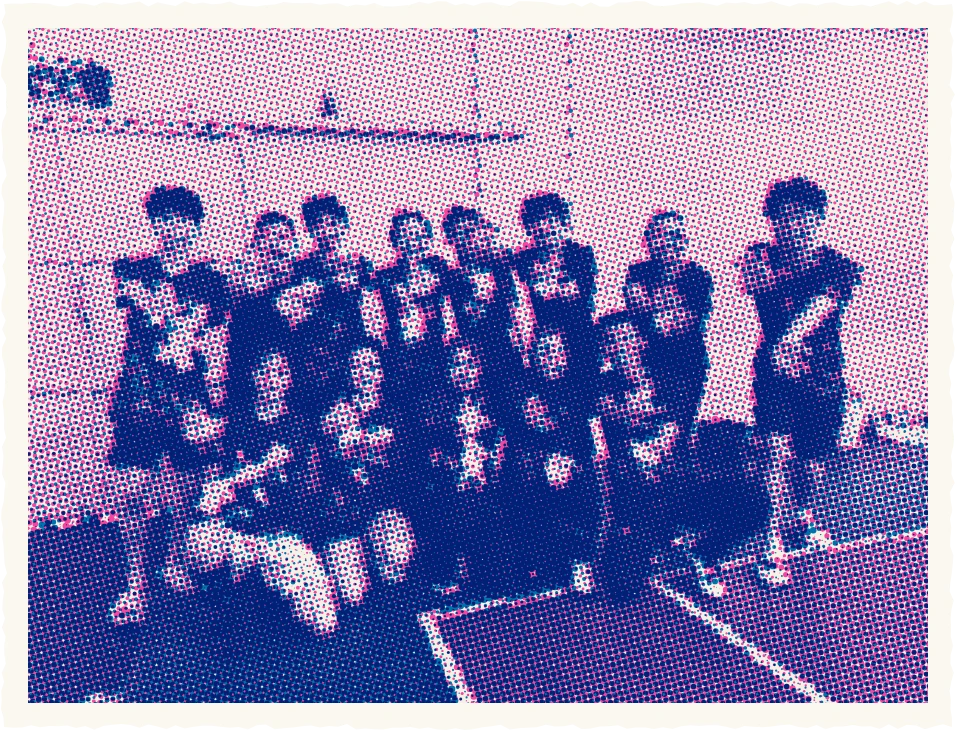
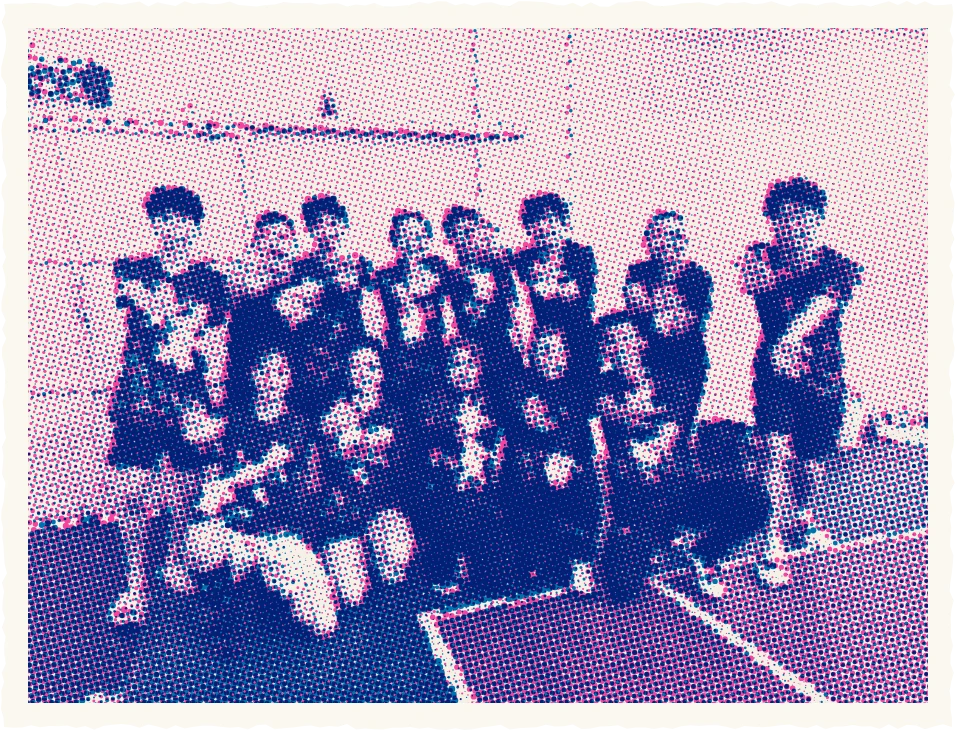
About critic r3: 6.5, gap is the shadow across the portrait
Claude-Session: https://claude.ai/code/session_016nJieuj3hz1PRLzcMUTyK7

diff --git a/site/js/chapters/desk.js b/site/js/chapters/desk.js
@@ -1,7 +1,7 @@
 // The scrapbook: a dot-grid page on the desk, the same window light falling
 // across it. Dodgeball memories get slapped onto the page as you scroll.
 import * as THREE from 'three';
-import { TIMELINE as T, clamp01, lerp, progress, smooth } from '../motion/timeline.js';
+import { STATES, TIMELINE as T, clamp01, lerp, progress, smooth } from '../motion/timeline.js';
 import { texture } from '../engine/textures.js';
 import { card, instantRect, place, sticker, tape } from '../engine/paper3d.js';
 
@@ -14,6 +14,41 @@ const backOut = (t) => {
   const c = 1.4;
   return 1 + (c + 1) * (t - 1) ** 3 + c * (t - 1) ** 2;
 };
+
+// The settled page, designed as a spread in screen space: each piece's centre
+// [u, v] (0..1 from the top-left of the frame), its width as a share of the
+// frame's width, and its tilt. Placement is solved through the camera at the
+// settled state, so every piece sits inside the frame whatever the aspect.
+// Wide: the copy owns the left 40%; the memories fill 0.47..0.96 in a loose
+// two-column spread. Narrow: the copy runs full width up top, so the memories
+// gather in the lower part of the frame.
+const SPREAD = {
+  wide: {
+    'gators-riso': { at: [0.585, 0.3], width: 0.2, rot: -0.05 },
+    'certificate-instant': { at: [0.8, 0.335], width: 0.14, rot: 0.06 },
+    'team-instant': { at: [0.56, 0.7], width: 0.14, rot: -0.035 },
+    'coaching-instant': { at: [0.725, 0.69], width: 0.115, rot: 0.045 },
+    'ticket-outreach': { at: [0.875, 0.75], width: 0.16, rot: -0.09 },
+    'sticker-star': { at: [0.733, 0.175], width: 0.034, rot: 0.2 },
+    'sticker-heart': { at: [0.915, 0.235], width: 0.028, rot: -0.2 },
+    'sticker-sparkle': { at: [0.94, 0.88], width: 0.024, rot: 0.15 },
+  },
+  narrow: {
+    'gators-riso': { at: [0.33, 0.6], width: 0.5, rot: -0.05 },
+    'certificate-instant': { at: [0.77, 0.62], width: 0.34, rot: 0.06 },
+    'team-instant': { at: [0.27, 0.81], width: 0.36, rot: -0.035 },
+    'coaching-instant': { at: [0.62, 0.83], width: 0.27, rot: 0.045 },
+    'ticket-outreach': { at: [0.5, 0.94], width: 0.4, rot: -0.06 },
+    'sticker-star': { at: [0.6, 0.52], width: 0.08, rot: 0.2 },
+    'sticker-heart': { at: [0.9, 0.74], width: 0.07, rot: -0.2 },
+    'sticker-sparkle': { at: [0.86, 0.95], width: 0.06, rot: 0.15 },
+  },
+};
+const SPREAD_STATE = STATES.scrapbook; // the camera pose the spread is solved for
+
+// A memory falls toward the page along the line of sight, so it lands where it
+// was seen in the air; it starts this share of the way to the eye.
+const DROP = { rise: 0.16, slide: 0.35 };
 
 // The sun is low, so a memory still in the air would throw its real shadow far
 // across the page. While it drops it casts none; a soft shadow rides under it
@@ -125,7 +160,7 @@ export class DeskChapter {
     scene.background = new THREE.Color(0x4a3526);
     this.scene = scene;
     const names = [
-      'paper', 'gobo-desk', 'gators-riso', 'game-riso', 'team-instant', 'certificate-instant', 'coaching-instant',
+      'paper', 'gobo-desk', 'gators-riso', 'team-instant', 'certificate-instant', 'coaching-instant', 'ticket-outreach',
       'tape-cream', 'tape-pink', 'tape-blue', 'tape-yellow', 'sticker-star', 'sticker-heart', 'sticker-sparkle',
     ];
     const tex = {};
@@ -158,18 +193,21 @@ export class DeskChapter {
     scene.add(sun, sun.target, new THREE.HemisphereLight(0xc9d4ea, 0x8a6a50, 1.05));
     this.sun = sun;
 
+    // In drop order: the riso and the hero polaroid first, the ticket and the stickers last.
     const items = [
-      { mesh: card(tex['gators-riso'], 2.6, { alphaTest: 0.5, gloss: 0, roughness: 0.92, lift: 0.4 }), at: { x: 1.9, y: 1.25, rot: -0.06 }, tape: ['pink', -0.95, 0.9, -0.6] },
-      { mesh: card(tex['certificate-instant'], 1.85, { rects: [instantRect(tex['certificate-instant'].userData.size, 1.2)], lift: 0.4 }), at: { x: 4.75, y: 1.5, rot: 0.07 }, tape: ['cream', 0, 1.3, 0.05] },
-      { mesh: card(tex['game-riso'], 2.6, { alphaTest: 0.5, gloss: 0, roughness: 0.92, lift: 0.3 }), at: { x: 2.3, y: -1.5, rot: 0.05 }, tape: ['yellow', 1.05, 0.75, 0.5] },
-      { mesh: card(tex['coaching-instant'], 1.7, { rects: [instantRect(tex['coaching-instant'].userData.size, 1.3)], lift: 0.5 }), at: { x: 6.6, y: -0.1, rot: -0.05 }, tape: ['blue', 0, 1.33, -0.1] },
-      { mesh: card(tex['team-instant'], 2.05, { rects: [instantRect(tex['team-instant'].userData.size, 0.8)], lift: 0.4 }), at: { x: 5.05, y: -1.75, rot: -0.04 }, tape: ['cream', -0.6, 1.0, -0.2] },
-      { mesh: sticker(tex['sticker-star'], 0.7), at: { x: 3.55, y: 2.55, z: 0.06, rot: 0.2 } },
-      { mesh: sticker(tex['sticker-heart'], 0.6), at: { x: 7.0, y: -2.5, z: 0.06, rot: -0.2 } },
-      { mesh: sticker(tex['sticker-sparkle'], 0.45), at: { x: 0.55, y: -2.75, z: 0.06, rot: 0.15 } },
+      { name: 'gators-riso', mesh: card(tex['gators-riso'], 2.6, { alphaTest: 0.5, gloss: 0, roughness: 0.92, lift: 0.4 }), tape: ['pink', -0.95, 0.9, -0.6] },
+      { name: 'certificate-instant', mesh: card(tex['certificate-instant'], 1.85, { rects: [instantRect(tex['certificate-instant'].userData.size, 1.2)], lift: 0.4 }), tape: ['cream', 0, 1.3, 0.05] },
+      { name: 'team-instant', mesh: card(tex['team-instant'], 2.05, { rects: [instantRect(tex['team-instant'].userData.size, 0.8)], lift: 0.4 }), tape: ['yellow', -0.6, 1.0, -0.35] },
+      { name: 'coaching-instant', mesh: card(tex['coaching-instant'], 1.7, { rects: [instantRect(tex['coaching-instant'].userData.size, 1.3)], lift: 0.5 }), tape: ['blue', 0, 1.33, -0.1] },
+      { name: 'ticket-outreach', mesh: card(tex['ticket-outreach'], 2.2, { gloss: 0, roughness: 0.9, lift: 0.25 }), tape: ['cream', 1.0, 0.3, 1.2] },
+      { name: 'sticker-star', mesh: sticker(tex['sticker-star'], 0.7), z: 0.06 },
+      { name: 'sticker-heart', mesh: sticker(tex['sticker-heart'], 0.6), z: 0.06 },
+      { name: 'sticker-sparkle', mesh: sticker(tex['sticker-sparkle'], 0.45), z: 0.06 },
     ];
-    this.items = items.map(({ mesh, at, tape: tapeSpec }, index) => {
-      place(page, mesh, { z: 0.08 + index * 0.012, ...at });
+    this.items = items.map(({ name, mesh, z, tape: tapeSpec }, index) => {
+      place(page, mesh, { z: (z ?? 0.08) + index * 0.012 });
+      mesh.userData.spread = name;
+      mesh.userData.width = mesh.userData.size.width;
       if (tapeSpec) {
         const [color, x, y, rot] = tapeSpec;
         const strip = tape(tex[`tape-${color}`], 0.62);
@@ -199,13 +237,43 @@ export class DeskChapter {
     this.camera.aspect = aspect;
     this.camera.fov = aspect < 1 ? 44 : 26;
     this.camera.updateProjectionMatrix();
+    this.layout();
   }
 
-  update(v) {
+  pose(v) {
     const drift = smooth(progress(v, [T.sections.scrapbook[0] - 0.4, T.sections.scrapbook[1]]));
     const narrow = this.camera.aspect < 1 ? 3.2 : 0;
     this.camera.position.set(lerp(0, 0.6, drift) + narrow, lerp(-2.6, -2.1, drift), lerp(15.4, 14.6, drift) + narrow);
     this.camera.lookAt(lerp(0, 0.5, drift) + narrow, 0.15, 0);
+    this.camera.updateMatrixWorld();
+  }
+
+  // Where the line of sight through screen point [u, v] meets the plane at height z.
+  onPage(u, v, z) {
+    const eye = this.camera.position;
+    const ray = new THREE.Vector3(u * 2 - 1, 1 - v * 2, 0.5).unproject(this.camera).sub(eye);
+    return eye.clone().addScaledVector(ray, (z - eye.z) / ray.z);
+  }
+
+  // Solves the spread for the camera at the settled state: rest spots and sizes.
+  layout() {
+    if (!this.items) return;
+    const spread = this.camera.aspect < 1 ? SPREAD.narrow : SPREAD.wide;
+    this.pose(SPREAD_STATE);
+    this.items.forEach((mesh) => {
+      const { at: [u, v], width, rot } = spread[mesh.userData.spread];
+      const z = mesh.userData.rest.z;
+      const centre = this.onPage(u, v, z);
+      const span = this.onPage(u + width / 2, v, z).x - this.onPage(u - width / 2, v, z).x;
+      mesh.scale.setScalar(span / mesh.userData.width);
+      mesh.userData.size = { width: span, height: (span * mesh.userData.size.height) / mesh.userData.size.width };
+      Object.assign(mesh.userData.rest, { x: centre.x, y: centre.y, rot });
+    });
+  }
+
+  update(v) {
+    this.pose(v);
+    const eye = this.camera.position;
 
     // Each memory drops onto the page in turn and lands with a small bounce.
     const [start, end] = T.scrapbook.settle;
@@ -215,7 +283,8 @@ export class DeskChapter {
       const t = clamp01((v - (start + index * step)) / (step * 3));
       const land = backOut(t);
       mesh.visible = t > 0;
-      mesh.position.set(rest.x, rest.y + (1 - land) * 0.6, rest.z + (1 - smooth(t)) * 2.4);
+      const rise = DROP.rise * (1 - smooth(t));
+      mesh.position.set(lerp(rest.x, eye.x, rise), lerp(rest.y, eye.y, rise) + (1 - land) * DROP.slide, lerp(rest.z, eye.z, rise));
       mesh.rotation.z = rest.rot + (1 - land) * mesh.userData.spinIn;
       const develop = mesh.material.userData.develop;
       if (develop) develop[0] = smooth(clamp01(t * 1.6 - 0.4));

diff --git a/site/js/chapters/wall.js b/site/js/chapters/wall.js
@@ -124,7 +124,7 @@ export class WallChapter {
     this.strip = card(tex['strip-color'], 0.98, { rects: stripRects(stripSize), lift: 0.5, segments: [6, 48] });
     this.strip.userData.rest = { x: 2.75, y: 0.0, z: 0.1, rot: -0.035 };
     wall.add(this.strip);
-    this.stripTape = tapeTop(this.strip, ink.tape('cream'), { width: 0.5, rot: 0.1 });
+    this.stripTape = tapeTop(this.strip, ink.tape('cream'), { width: 0.62, rot: 0.08, dy: -0.01 });
 
     // Its spot waits in the sun the way an album page waits for a photo: four
     // black corner mounts, and a ballpoint note pointing up into the spot. Each
@@ -165,6 +165,8 @@ export class WallChapter {
       mount.userData.group = 'hello';
       pieces.push(mount);
     });
+    // The tape lands over the top mounts, so it sits clear of their height.
+    this.stripTape.position.z = Math.max(cornerHeight(-1, 1), cornerHeight(1, 1)) + 0.02;
     // Ballpoint on the plaster under the spot (texture at 400 px per unit, laid
     // out from x -0.02, y -1.38 in the spot's frame).
     const noteSize = tex['note-spot'].userData.size;
@@ -274,20 +276,34 @@ export class WallChapter {
     strip.visible = v > print[0] - 0.02;
     const drop = 1 - easeOut(p);
     const swing = 0.1 * (1 - p) ** 2 * Math.sin(p * 9);
-    const pressed = smooth(progress(v, tapeRange));
-    strip.position.set(rest.x + drop * 0.25, rest.y + drop * 5.6, rest.z + 0.18 * (1 - pressed));
-    strip.rotation.z = rest.rot + swing;
+    // The tape drops in from above the camera, a little big and skewed,
+    // slaps onto the top edge at `hit`, pushes the strip a hair into the wall,
+    // and both settle. The strip seats itself as the tape comes down.
+    const u = progress(v, tapeRange);
+    const hit = 0.35;
+    const fall = clamp01(u / hit);
+    const press = Math.sin(Math.PI * clamp01((u - hit) / ((1 - hit) * 0.5)));
+    const seated = smooth(fall);
+    strip.position.set(
+      rest.x + drop * 0.25,
+      rest.y + drop * 5.6 - 0.016 * press,
+      rest.z + 0.18 * (1 - seated) - 0.035 * press,
+    );
+    strip.rotation.z = rest.rot + swing + 0.006 * press;
     const frames = strip.material.userData.develop;
     const span = (develop[1] - develop[0]) / (frames.length + 1.5);
     frames.forEach((_, i) => {
       frames[i] = smooth(progress(v, [develop[0] + i * span, develop[0] + (i + 2.5) * span]));
     });
-    const tapeIn = clamp01((v - tapeRange[0]) / ((tapeRange[1] - tapeRange[0]) * 0.4));
     const tapePiece = strip.children[0];
     if (tapePiece) {
-      tapePiece.visible = tapeIn > 0;
-      tapePiece.scale.setScalar(lerp(1.35, 1, easeOut(tapeIn)));
-      tapePiece.material.opacity = tapeIn;
+      const base = (tapePiece.userData.base ??= { x: tapePiece.position.x, y: tapePiece.position.y, z: tapePiece.position.z, rot: tapePiece.rotation.z });
+      const away = 1 - fall * fall; // accelerates into the hit
+      tapePiece.visible = u > 0;
+      tapePiece.position.set(base.x - 0.04 * away, base.y + 0.2 * away, base.z + 0.5 * away);
+      tapePiece.rotation.z = base.rot + 0.28 * away;
+      tapePiece.scale.set(1 + 0.3 * away + 0.05 * press, 1 + 0.3 * away - 0.04 * press, 1);
+      tapePiece.material.opacity = smooth(clamp01(fall / 0.4));
     }
   }
 

diff --git a/tools/bake/manifest.js b/tools/bake/manifest.js
@@ -448,7 +448,19 @@ export const TEXTURES = {
   'room-floor': { make: () => floorboards(), quality: 0.86 },
 
   // --- scrapbook
-  'gators-riso': { make: (p) => riso(p, 'gators', 900, 675, { seed: 21 }) },
+  // gamma > 1 thins the dots, so the team reads in light paper, not a purple slab.
+  'gators-riso': { make: (p) => riso(p, 'gators', 900, 675, { seed: 21, gamma: 1.55 }) },
+  'ticket-outreach': {
+    make: () => ticketStub({
+      serial: 'Nº 110426',
+      seed: 23,
+      lines: [
+        { text: 'OUTREACH', font: '800 112px "Bricolage Grotesque"', x: 0.06, y: 0.5 },
+        { text: 'SSDC DODGEBALL · TUNKU PUTRA-HELP', font: '700 26px "JetBrains Mono"', x: 0.065, y: 0.7 },
+        { text: '11 APRIL 2026 — FACILITATOR', font: '500 25px "JetBrains Mono"', x: 0.065, y: 0.83, color: '#ff48b0' },
+      ],
+    }),
+  },
   'game-riso': { make: (p) => riso(p, 'game', 900, 600, { seed: 22 }) },
   'team-instant': { make: (p) => instant(p, 'team', 'outreach crew', { ratio: 0.8, seed: 110 }) },
   'certificate-instant': { make: (p) => instant(p, 'certificate', 'facilitator! 11 april', { ratio: 1.2, pose: { focusY: 0.32 }, seed: 111 }) },
